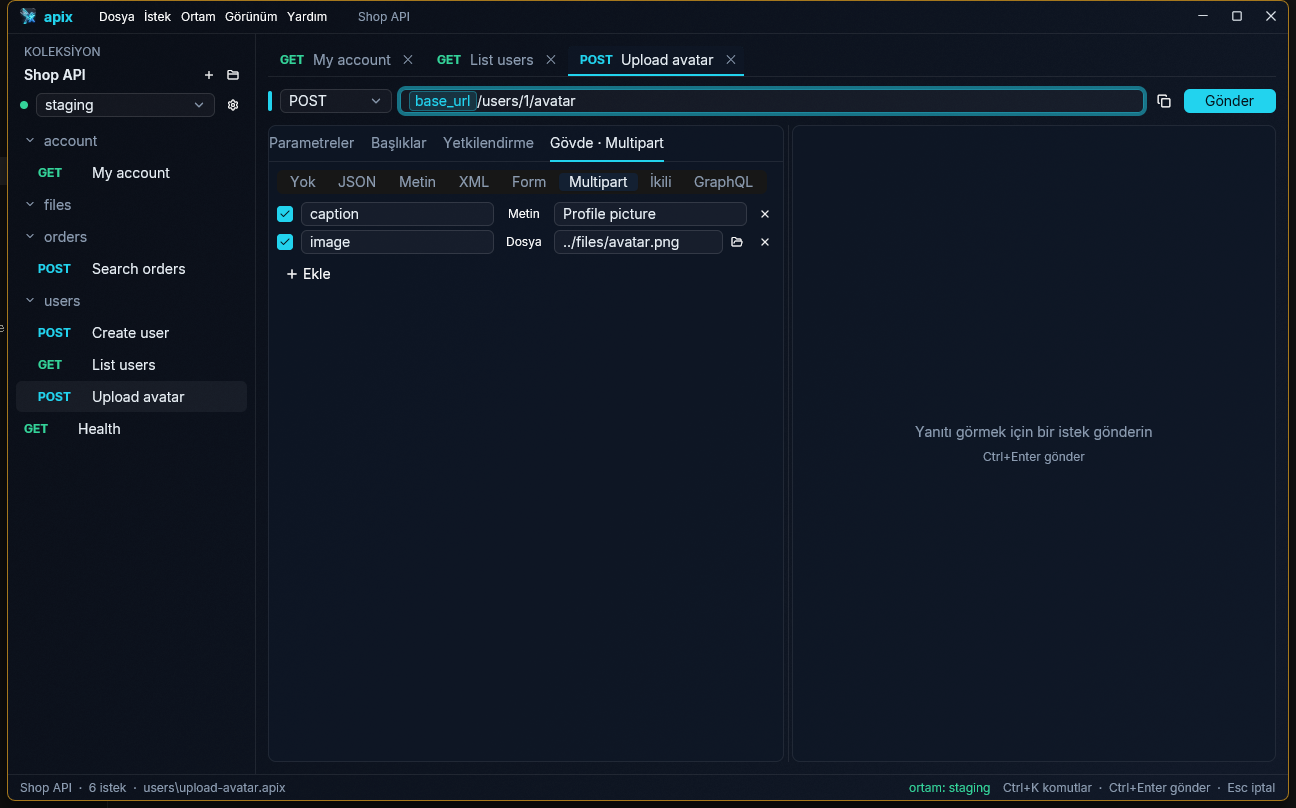
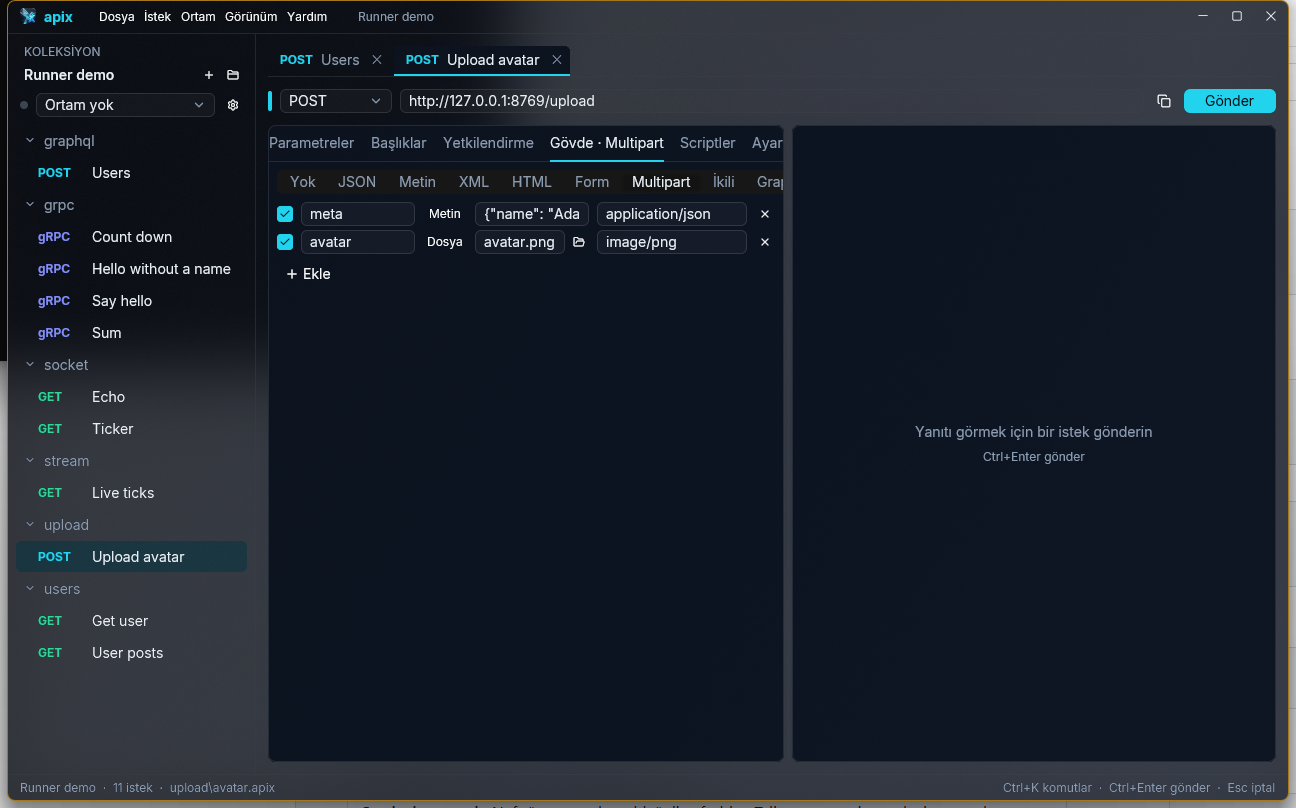
Multipart fields: their Content-Type is editable in the Body tab
Each part has a type field beside its value (empty lets the engine choose; variables work), saved as content_type; texts in all nine languages; new Body screenshots.

diff --git a/crates/apix-desktop/src/workspace/body_editor.rs b/crates/apix-desktop/src/workspace/body_editor.rs
@@ -123,10 +123,10 @@ struct PartRow {
     text: Entity<InputState>,
     path: Entity<InputState>,
     file: bool,
-    /// Kept from the file; not editable yet.
-    content_type: Option<String>,
+    /// The part's own Content-Type; empty lets the engine choose.
+    content_type: Entity<InputState>,
     enabled: bool,
-    _chips: [Subscription; 3],
+    _chips: [Subscription; 4],
 }
 
 impl PartRow {
@@ -139,14 +139,20 @@ impl PartRow {
         let (key, key_chips) = chipped_input(&part.key, tr!("table.key"), window, cx);
         let (text, text_chips) = chipped_input(text, tr!("table.value"), window, cx);
         let (path, path_chips) = chipped_input(path, tr!("body.file_path"), window, cx);
+        let (content_type, type_chips) = chipped_input(
+            part.content_type.as_deref().unwrap_or_default(),
+            tr!("body.part_content_type"),
+            window,
+            cx,
+        );
         Self {
             key,
             text,
             path,
             file: part.file,
-            content_type: part.content_type.clone(),
+            content_type,
             enabled: part.enabled,
-            _chips: [key_chips, text_chips, path_chips],
+            _chips: [key_chips, text_chips, path_chips, type_chips],
         }
     }
 
@@ -161,7 +167,8 @@ impl PartRow {
             key,
             value,
             file: self.file,
-            content_type: self.content_type.clone(),
+            content_type: Some(self.content_type.read(cx).value().trim().to_string())
+                .filter(|t| !t.is_empty()),
             enabled: self.enabled,
         })
     }
@@ -265,6 +272,7 @@ impl BodyEditor {
                 (&row.key, tr!("table.key")),
                 (&row.text, tr!("table.value")),
                 (&row.path, tr!("body.file_path")),
+                (&row.content_type, tr!("body.part_content_type")),
             ] {
                 input.update(cx, |state, cx| state.set_placeholder(text, window, cx));
             }
@@ -555,6 +563,12 @@ impl BodyEditor {
                         })),
                 )
                 .child(value)
+                .child(
+                    div()
+                        .w(px(150.))
+                        .flex_none()
+                        .child(self.field(&row.content_type, cx)),
+                )
                 .child(remove_button(("part-del", ix), cx, move |this| {
                     if ix < this.parts.len() {
                         this.parts.remove(ix);
